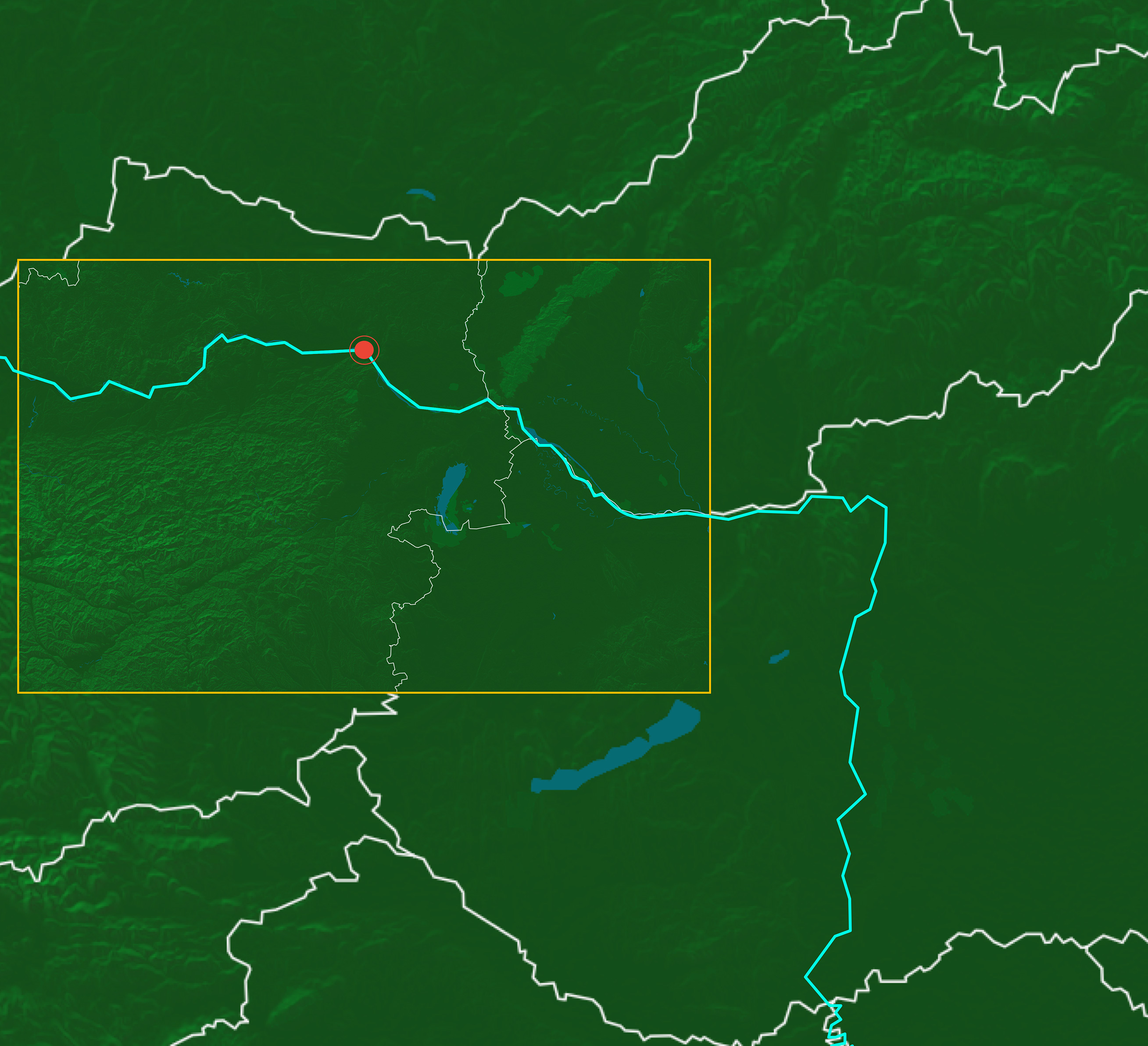
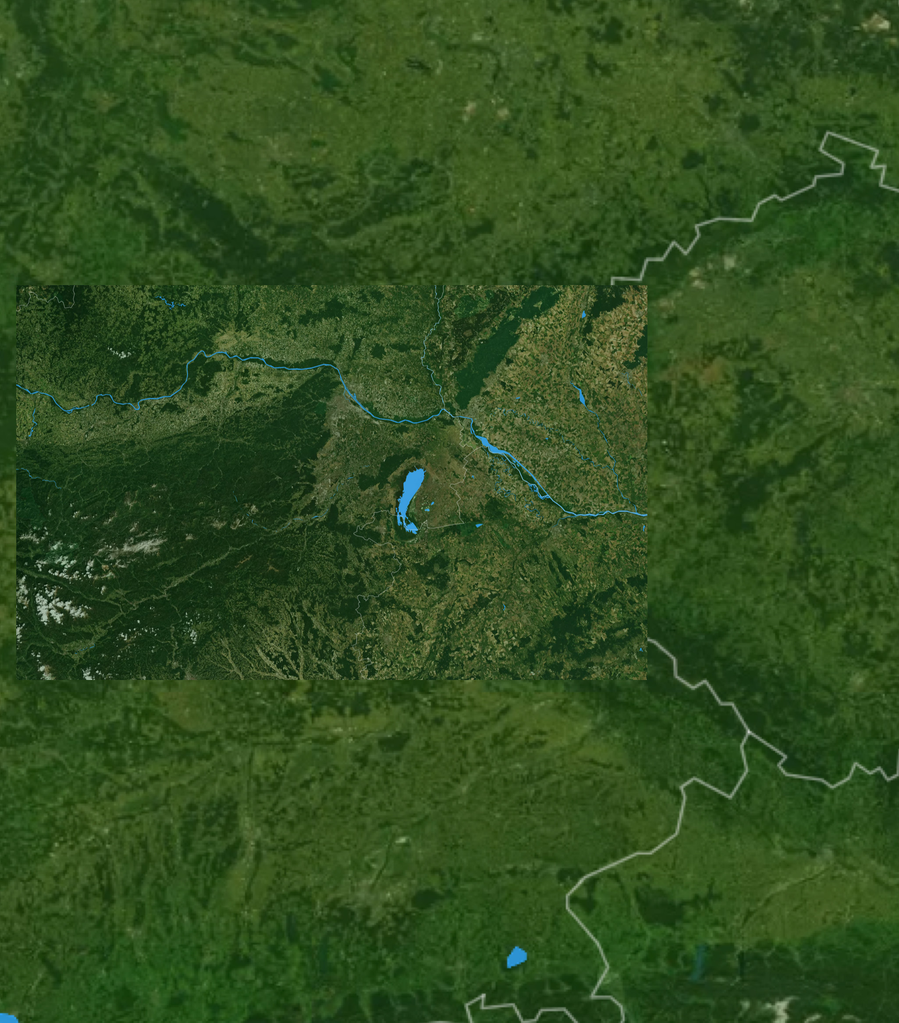
Added new map tiles and segment locations

diff --git a/src/app/components/Map/consts.js b/src/app/components/Map/consts.js
@@ -10,32 +10,32 @@ const getCoordinatePercentage = (map, x, y) => ({
 
 // Original map size.
 export const MAP = {
-  width: 9849,
-  height: 4500,
+  width: 9017,
+  height: 4120,
 };
 
 // These are the x,y coordinates for each segment.
 // They are percentage values taken from the top left of the original map.
 export const SEGMENT_COORDINATES = [
-  getCoordinatePercentage(MAP, 213, 213),
-  getCoordinatePercentage(MAP, 1884, 705),
-  getCoordinatePercentage(MAP, 4691, 2821),
-  getCoordinatePercentage(MAP, 6423, 2792),
-  getCoordinatePercentage(MAP, 8057, 2649),
+  getCoordinatePercentage(MAP, 200, 200),
+  getCoordinatePercentage(MAP, 1730, 650),
+  getCoordinatePercentage(MAP, 4301, 2587),
+  getCoordinatePercentage(MAP, 5886, 2561),
+  getCoordinatePercentage(MAP, 7380, 2430),
 ];
 
 // The map consists of multiple tile images, for each segment, for efficiency.
 // Here is where the coordinates are defined.
 export const TILE_COORDINATES = [
   getCoordinatePercentage(MAP, 0, 0),
-  getCoordinatePercentage(MAP, 1846, 115),
-  getCoordinatePercentage(MAP, 3672, 1818),
-  getCoordinatePercentage(MAP, 6358, 2421),
-  getCoordinatePercentage(MAP, 8035, 2347),
+  getCoordinatePercentage(MAP, 1693, 0),
+  getCoordinatePercentage(MAP, 3744, 2332),
+  getCoordinatePercentage(MAP, 5818, 2206),
+  getCoordinatePercentage(MAP, 7357, 2234),
 ];
 
 // Percentage values of the segment in relation to the map.
 export const MAP_SEGMENT = {
-  width: getPercentage(MAP, 1584, 'x'),
-  height: getPercentage(MAP, 993, 'y'),
+  width: getPercentage(MAP, 1440, 'x'),
+  height: getPercentage(MAP, 900, 'y'),
 };

diff --git a/src/app/screens/LandingScreen.js b/src/app/screens/LandingScreen.js
@@ -28,7 +28,7 @@ export default class LandingScreen extends BaseScreen {
 
     return (
       <Screen name="Landing" lockSections>
-        <Section show={true}>
+        <Section show={false}>
           <Hero
             tag="Life of a River"
             title="The Danube"
@@ -36,7 +36,7 @@ export default class LandingScreen extends BaseScreen {
           />
         </Section>
 
-        <Section show={true}>
+        <Section show={false}>
           <Video sources={[{src: asset('assets/vid/landing-screen-intro.mp4'), type: 'video/mp4'}]}/>
         </Section>
 
@@ -44,7 +44,7 @@ export default class LandingScreen extends BaseScreen {
           <Map/>
         </Section>
 
-        <Section show={true} className="Footer__section">
+        <Section show={false} className="Footer__section">
           <Footer/>
         </Section>
       </Screen>

diff --git a/src/app/components/Map/index.js b/src/app/components/Map/index.js
@@ -13,10 +13,10 @@ export default class Map extends Component {
 
   state = {
     // @todo replace when finished development
-    // activeMap: 'full',
-    // activeItem: {...config.articles[1]},
-    activeMap: 'zoomed',
-    activeItem: {...config.articles[0]},
+    activeMap: 'full',
+    activeItem: {...config.articles[1]},
+    // activeMap: 'zoomed',
+    // activeItem: {...config.articles[0]},
     showCloudsAnimation: false,
   };
 

diff --git a/src/style/Components/_MapFull.scss b/src/style/Components/_MapFull.scss
@@ -19,7 +19,7 @@
     top: 0;
     left: 0;
     overflow: hidden;
-    background-color: #12551b;
+    background-color: #2d4e1c;
 
     &-container {
       transform-origin: 0 0;
